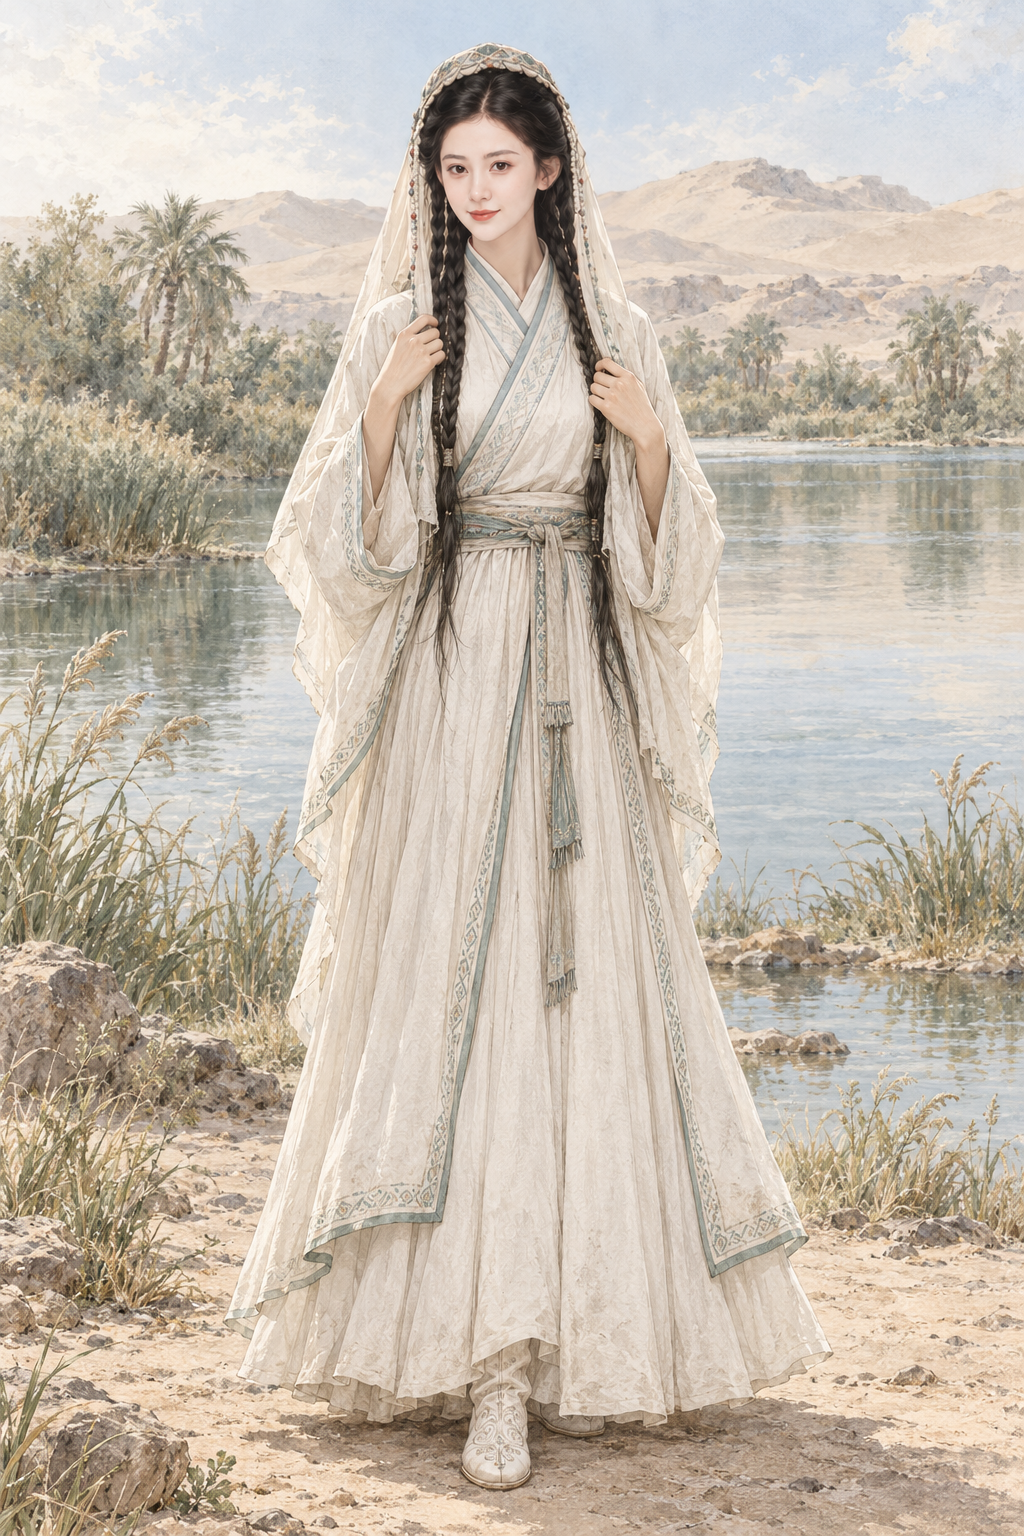
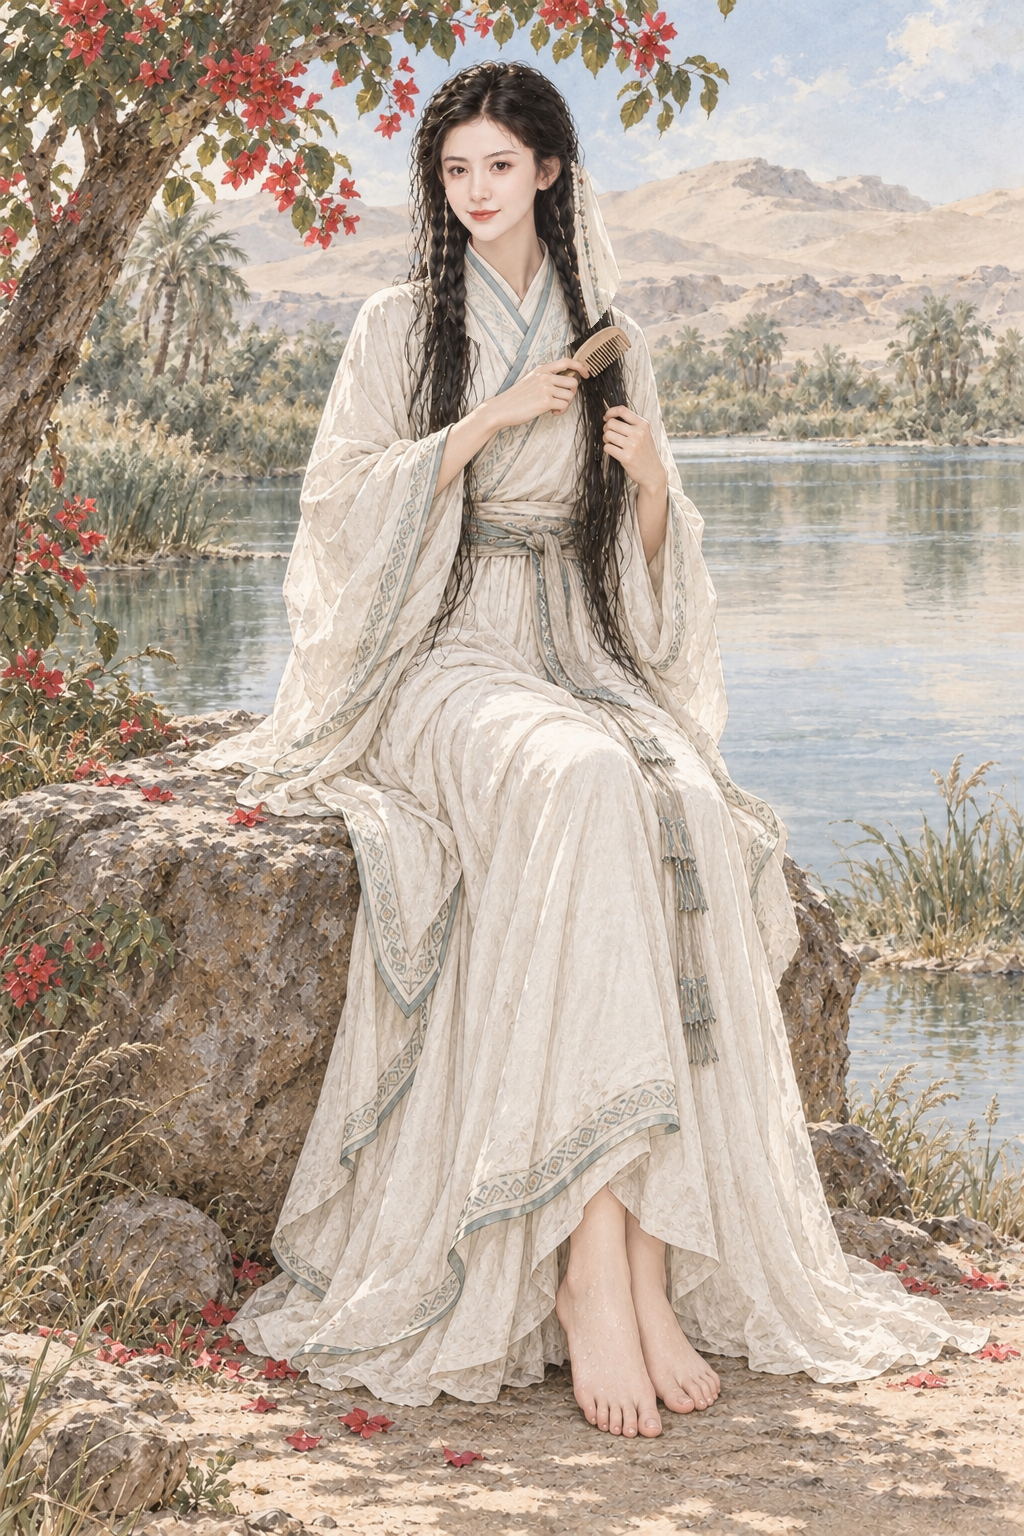
assets: AR-82 原著核对返修 喀丝丽
修正原著明确的服饰、器物或剧情状态；编辑范围外像素保持，保留既定面容；同步原著摘句及当前返修要求。

Executed-By: Codex gpt-6.1-sol（AR-82）

diff --git a/assets/default/prompts/characters/ch12-shujian/npc_kasili__scene_oasis_first_meeting.md b/assets/default/prompts/characters/ch12-shujian/npc_kasili__scene_oasis_first_meeting.md
@@ -51,3 +51,16 @@ size: 1024x1536
 
 - 参考分工见实际提示词；配色、姿势、取景及成年化均为（原创扩展）。
 - 本轮结果已逐图目检并入库为 candidate；实际作业与参考哈希见 manifest。
+
+
+## 原著依据
+
+- AR-82 返修依据：《书剑恩仇录》第十三回“吐气扬眉雷掌疾，惊才绝艳雪莲馨”：“她赤了双脚”。；来源：https://github.com/OliverCWY/JY/blob/master/Markdown/%E4%B8%89%E8%81%94%E7%89%88/%E4%B9%A6%E5%89%91%E6%81%A9%E4%BB%87%E5%BD%95/%E7%AC%AC13%E7%AB%A0%E3%80%80%E5%90%90%E6%B0%94%E6%89%AC%E7%9C%89%E9%9B%B7%E6%8E%8C%E7%96%BE%EF%BC%8C%E6%83%8A%E6%89%8D%E7%BB%9D%E8%89%B3%E9%9B%AA%E8%8E%B2%E9%A6%A8.md；执行：湖畔初见保留白衣，双脚明确赤足、鞋放画面外；脚与衣摆沾少许水珠，表现刚从水中上来。
+- AR-82 返修依据：《书剑恩仇录》第十三回“吐气扬眉雷掌疾，惊才绝艳雪莲馨”：“坐着”“长发垂肩”“拿着一把梳子慢慢梳理”。；来源：https://github.com/OliverCWY/JY/blob/master/Markdown/%E4%B8%89%E8%81%94%E7%89%88/%E4%B9%A6%E5%89%91%E6%81%A9%E4%BB%87%E5%BD%95/%E7%AC%AC13%E7%AB%A0%E3%80%80%E5%90%90%E6%B0%94%E6%89%AC%E7%9C%89%E9%9B%B7%E6%8E%8C%E7%96%BE%EF%BC%8C%E6%83%8A%E6%89%8D%E7%BB%9D%E8%89%B3%E9%9B%AA%E8%8E%B2%E9%A6%A8.md；执行：坐在湖边红花树下，湿长发散垂肩背，手持梳子理发；脸与发留水珠。保留作者选定面容，不以整理头巾动作代替梳发。
+
+
+## AR-82 当前返修约束
+
+喀丝丽湖畔初见：保留作者选定面容、原头部位置与角度、白衣和原画笔触。改为坐在湖边红花树下的大石上（坐姿使原头部保持画内相同高度，不移脸），刚从水中出来，两只脚明确赤足、脚趾自然可见，鞋子在画外。原整齐两根长辫和头巾去掉，湿润长发自然散垂两肩后背，脸与发有少许水珠；一手持素色梳子慢慢梳理湿长发，另一手轻拢发束，不再扶头巾。白衣完全不透明，双足与下摆少量水珠，仍端庄保暖不裸露身体。
+
+以本节及原著依据为当前要求，历史提示词与本节冲突时按本节执行；保留作者选定脸、原画质感与对应剧情阶段。
